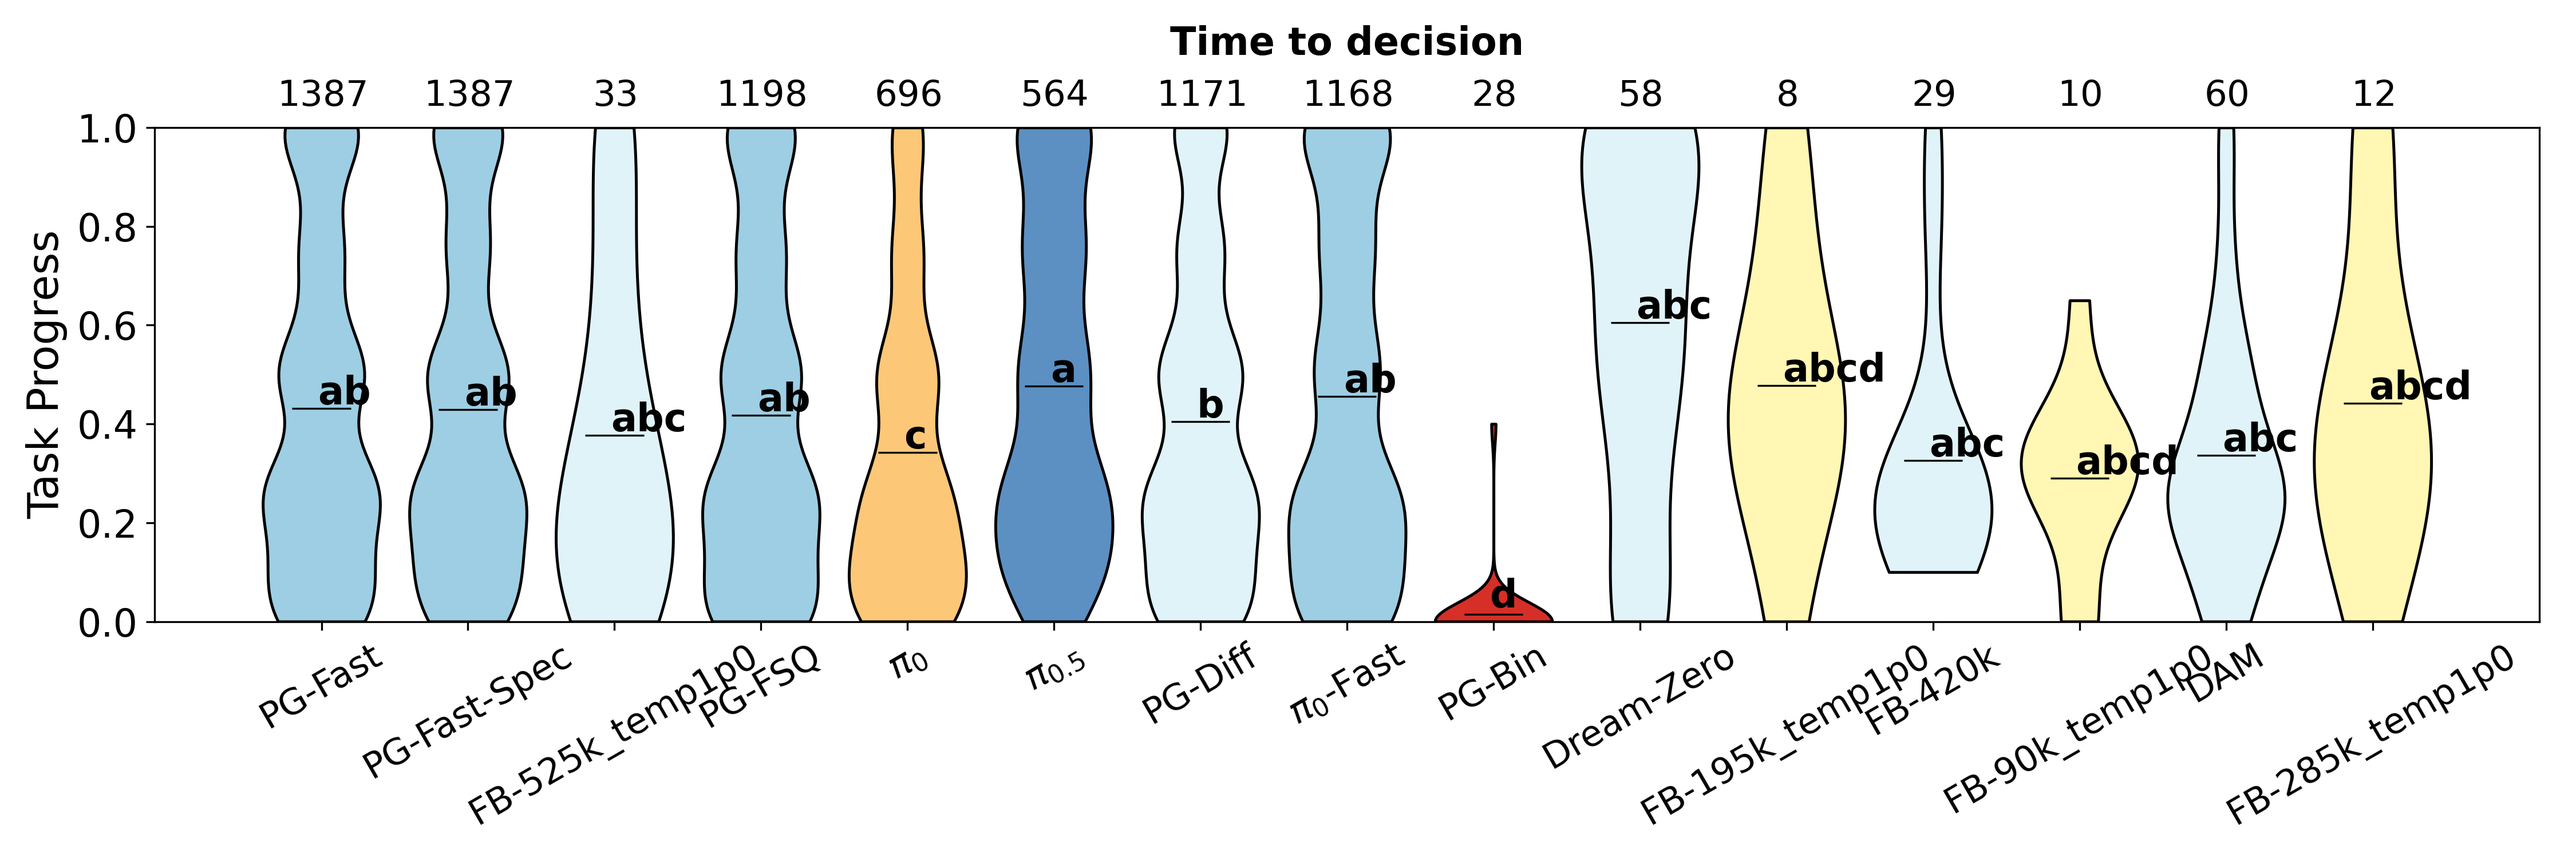
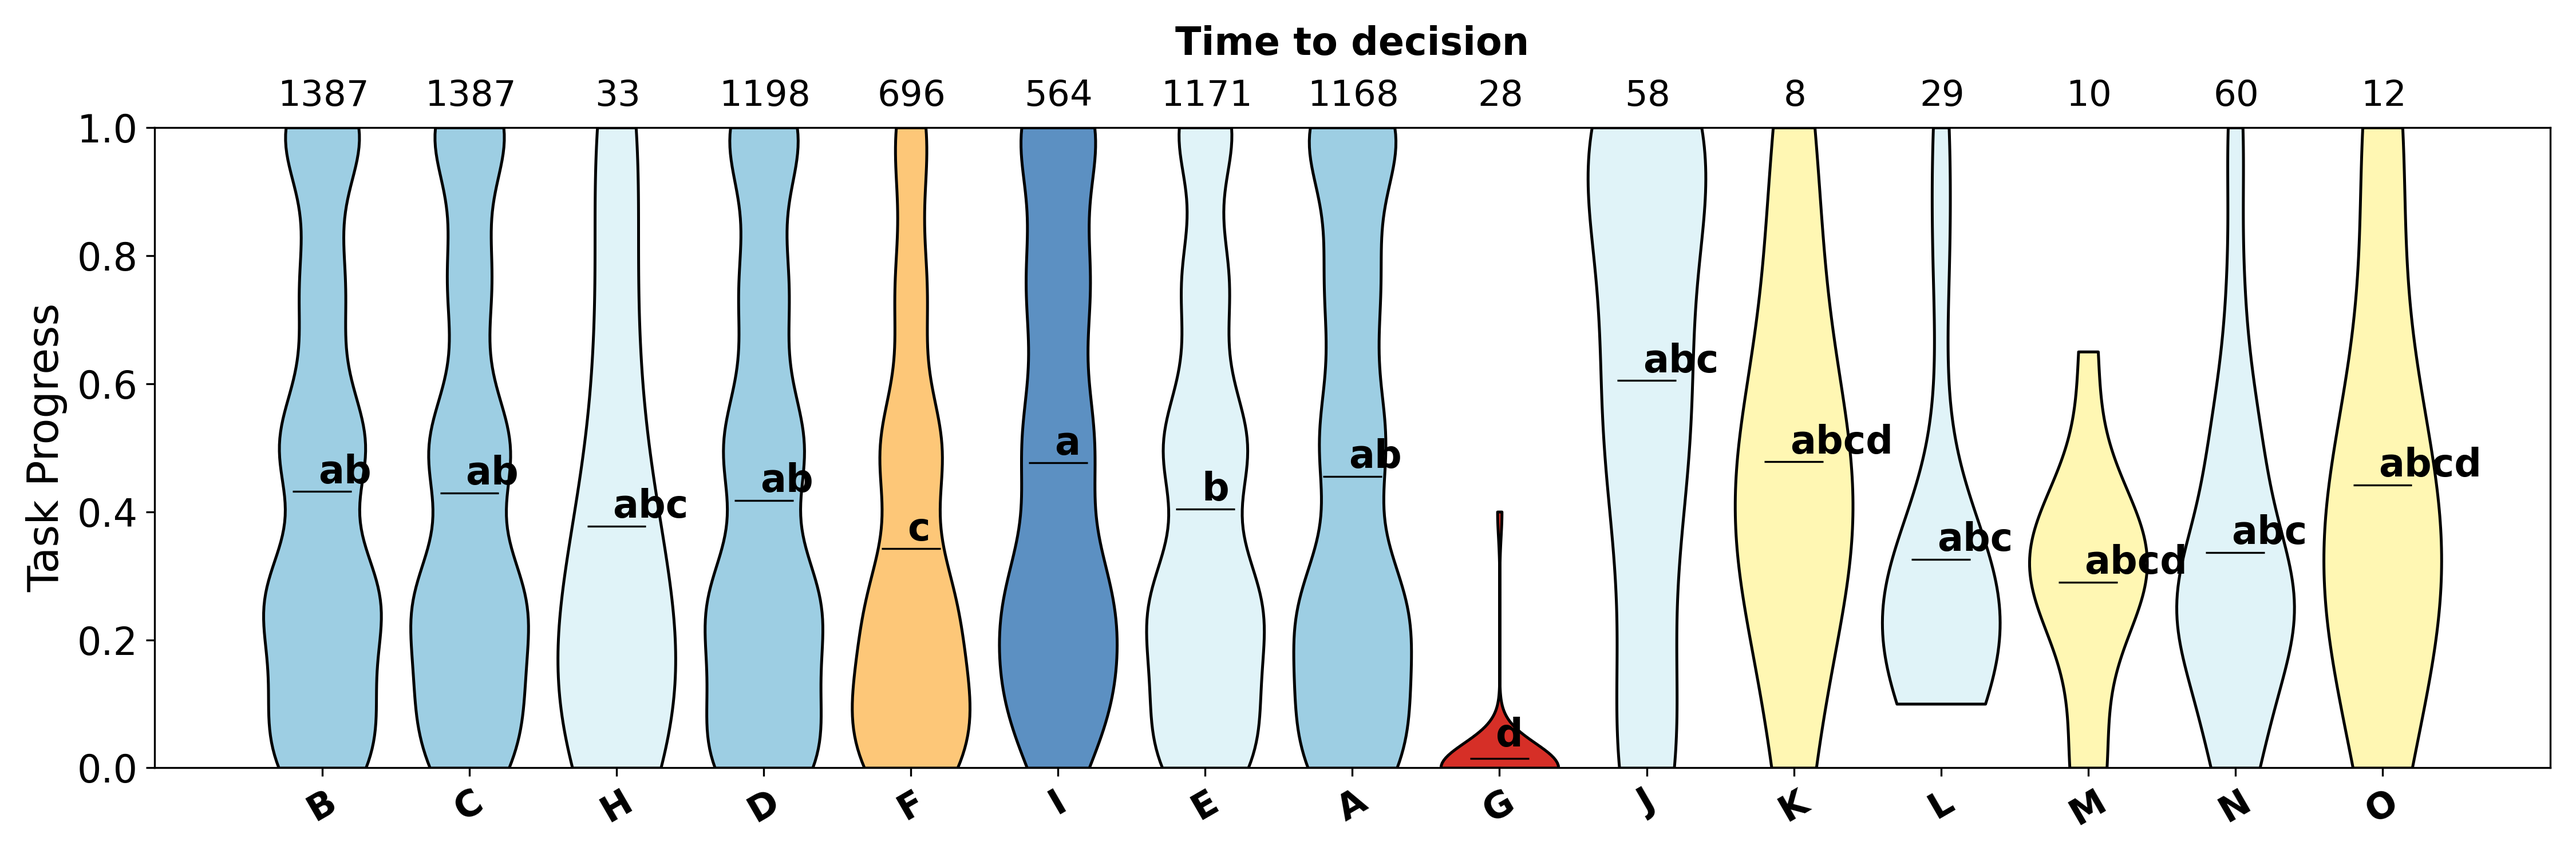
Update scalability plot and add RoboArena ranking table
Refresh assets/scalability.png with the revised plot, and add the
RoboArena4/RoboArena7 ranking comparison table (Table 1) to the
Statistical Reliability tab.

diff --git a/index.html b/index.html
@@ -67,6 +67,13 @@
 
         figcaption { font-size: 0.9rem; color: #555; }
         figcaption strong { color: #222; }
+
+        .tied {
+            background: #f4e3cd;
+            border-radius: 4px;
+            padding: 1px 5px;
+            white-space: nowrap;
+        }
     </style>
 </head>
 
@@ -196,6 +203,52 @@
                         <p class="text-justify">
                             Does AnyRank maintain family-wise error rate (FWER) control, even under incorrect priors &mdash; and does this guard against the ranking failures seen in Bradley&ndash;Terry baselines? On RoboArena evaluation data, Bradley&ndash;Terry methods can be both <em>miscalibrated</em> (e.g., confidently ranking one policy above another when the opposite is more likely true) and <em>temporally inconsistent</em> (flipping the ranking as more trials are collected). AnyRank avoids both failure modes: its rankings at any stopping time remain correct with probability at least \(1-\alpha\) and never contradict a ranking produced with more data.
                         </p>
+
+                        <div class="table-responsive">
+                            <table class="table table-sm table-bordered align-middle text-center" style="font-size:0.92rem;">
+                                <thead class="table-light">
+                                    <tr>
+                                        <th></th>
+                                        <th>Method</th>
+                                        <th>RoboArena4</th>
+                                        <th>RoboArena7</th>
+                                    </tr>
+                                </thead>
+                                <tbody>
+                                    <tr>
+                                        <td rowspan="3" class="fw-bold">Ours</td>
+                                        <td>AnyRank</td>
+                                        <td>A &gt; E &gt; F &gt; G</td>
+                                        <td>A &gt; E &gt; F &gt; G, <span class="tied">{A,B,C,D}</span>, <span class="tied">{B,C,D,E}</span></td>
+                                    </tr>
+                                    <tr>
+                                        <td>AnyRank<sub>0</sub></td>
+                                        <td>A &gt; E &gt; F &gt; G</td>
+                                        <td>A &gt; E &gt; F &gt; G, <span class="tied">{A,B,C,D}</span>, <span class="tied">{B,C,D,E}</span></td>
+                                    </tr>
+                                    <tr>
+                                        <td>AnyRank<sub>&infin;</sub></td>
+                                        <td>A &gt; E &gt; F &gt; G</td>
+                                        <td>A &gt; E &gt; F &gt; G, <span class="tied">{A,B,C,D}</span>, <span class="tied">{B,C,D,E}</span>, <span class="tied">{B,C,D,F}</span></td>
+                                    </tr>
+                                    <tr>
+                                        <td rowspan="2" class="fw-bold">Baselines</td>
+                                        <td>Bonferroni</td>
+                                        <td>A &gt; E &gt; F &gt; G</td>
+                                        <td>A &gt; E &gt; F &gt; G, <span class="tied">{A,B,C,D}</span>, <span class="tied">{B,C,D,E}</span></td>
+                                    </tr>
+                                    <tr>
+                                        <td>Weighted Bonferroni</td>
+                                        <td><span class="tied">{A,E}</span> &gt; F &gt; G</td>
+                                        <td><span class="tied">{A,B,C,D,E}</span> &gt; F &gt; G</td>
+                                    </tr>
+                                </tbody>
+                            </table>
+                        </div>
+                        <p class="text-muted" style="font-size:0.85rem;">
+                            <strong>Table 1.</strong> Ranking DROID policies from RoboArena with all available data. Policies: &pi;<sub>0</sub>-FAST (A), PG-FAST (B), PG-FAST-Specialist (C), PG-FSQ (D), PG-Diff (E), &pi;<sub>0</sub> (F), PG-Bin (G). Groups in curly braces are not statistically distinguishable by that method.
+                        </p>
+
                         <img src="assets/ranking-example.png" width="100%" alt="Violin plots of task progress for seven RoboArena policies, with compact letter groupings showing AnyRank's statistically distinguishable ranking.">
                         <figcaption class="mt-2">AnyRank's partial ranking of seven DROID policies from RoboArena, shown as compact letter groupings over violin plots of raw task-progress scores. Policies sharing a letter are not statistically distinguishable.</figcaption>
                     </div>
